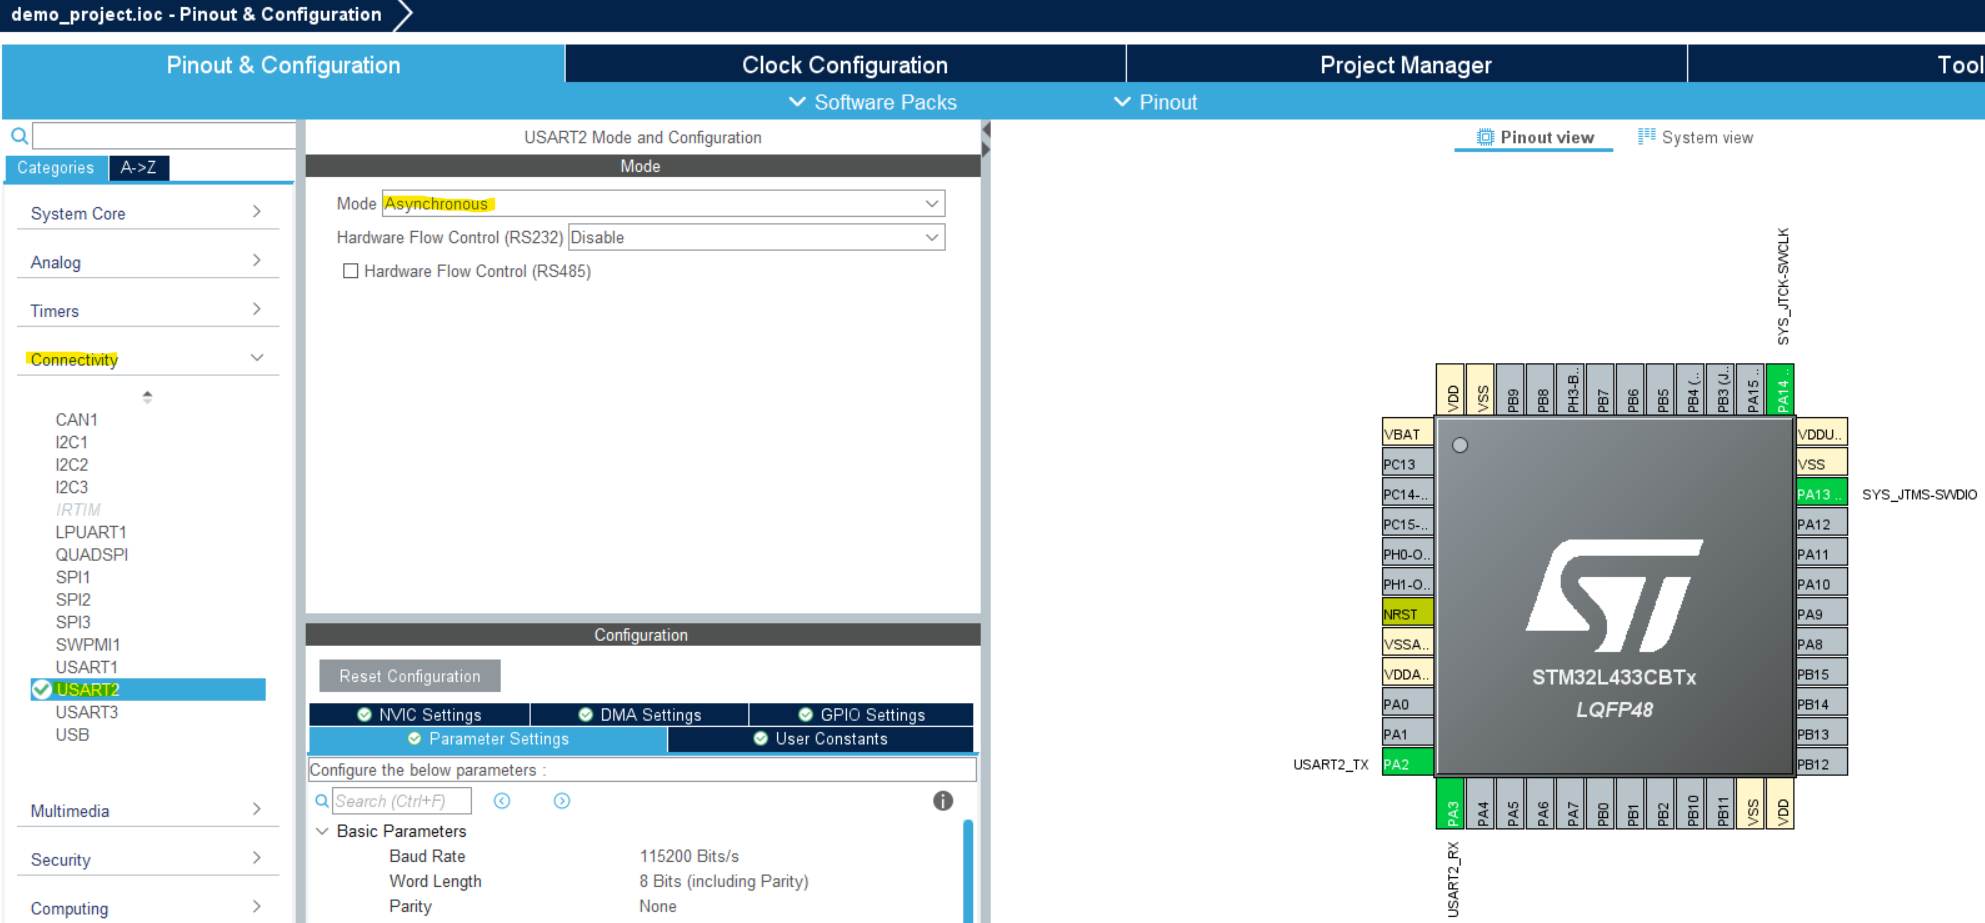
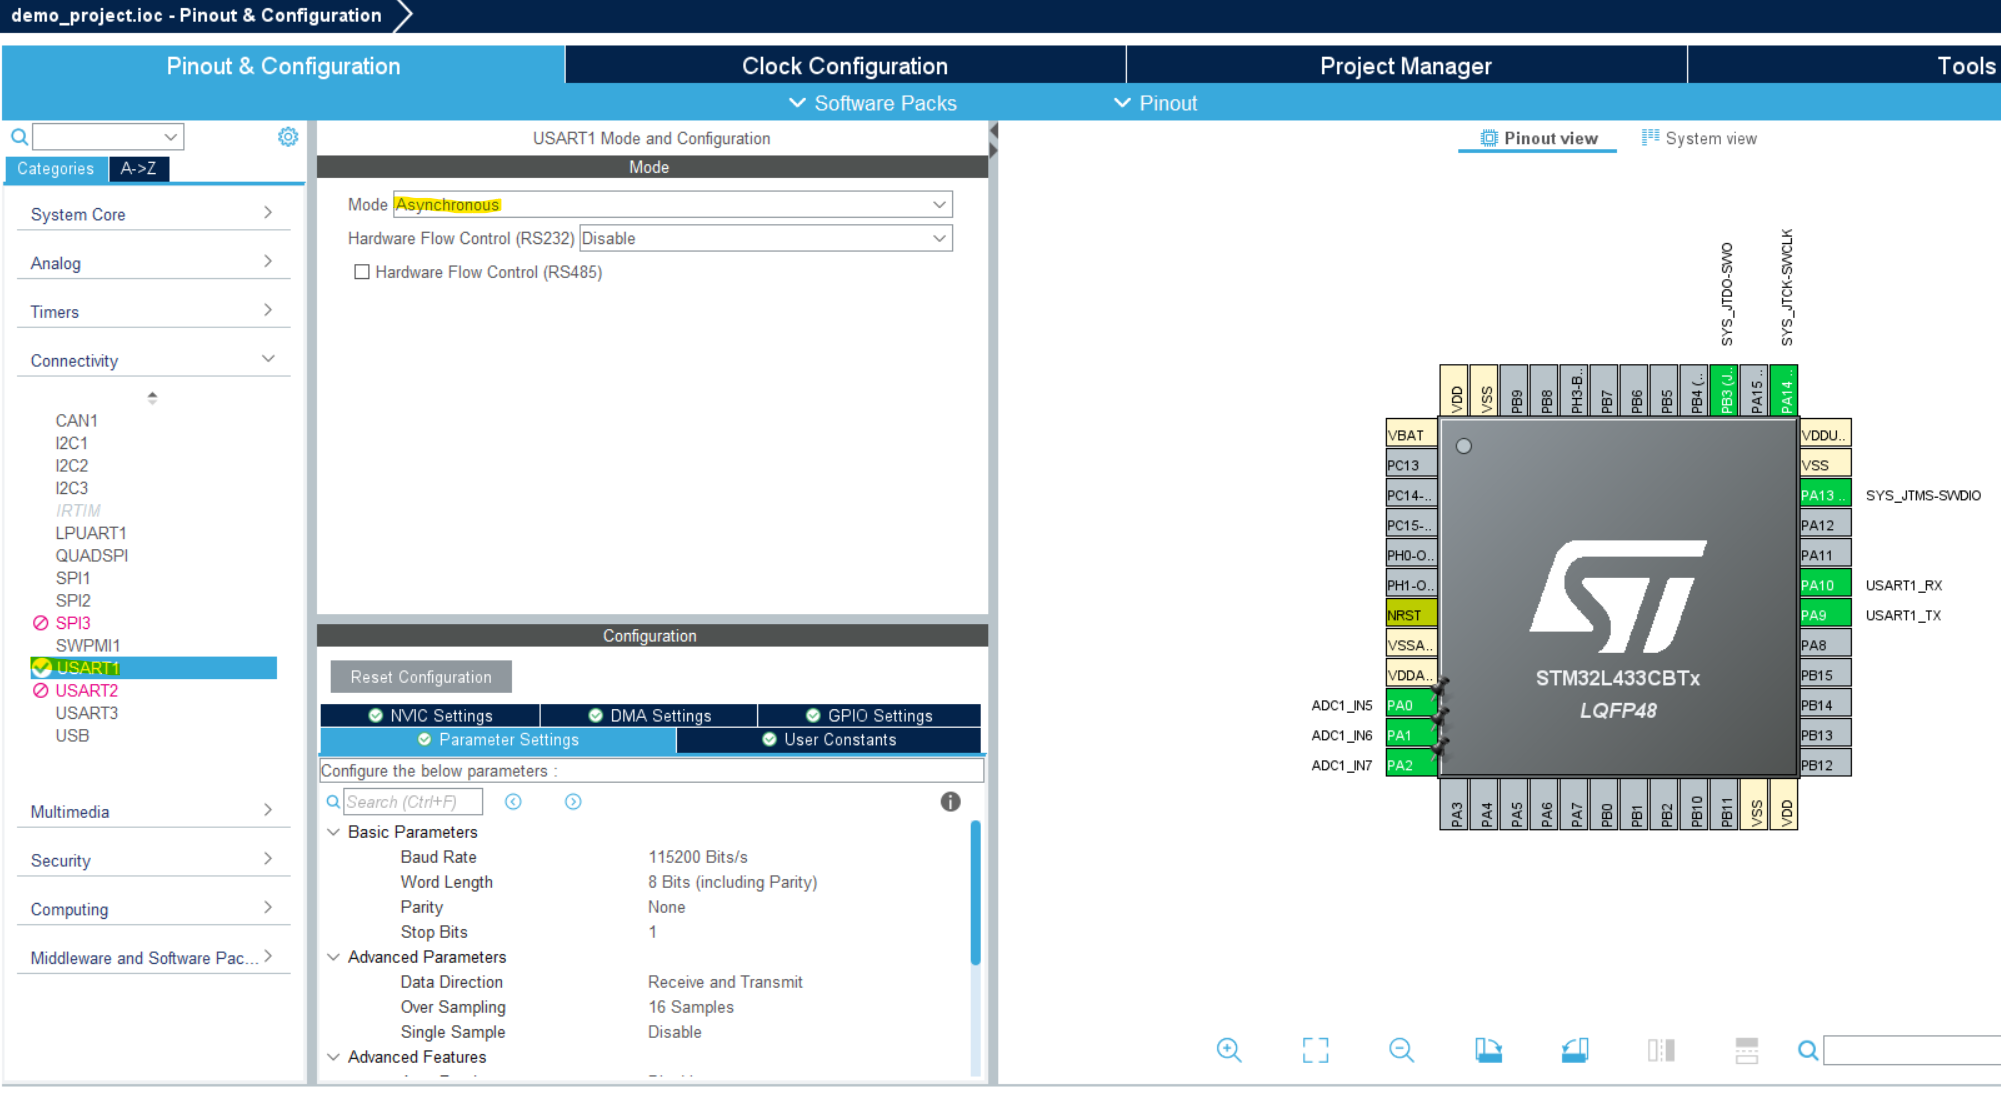
Many changes, mostly around fact that UART1 is utilised, not UART2

diff --git a/6. Payload Breakdowns/6.1 Acclerometer/ADXL326 Lesson Guide.md b/6. Payload Breakdowns/6.1 Acclerometer/ADXL326 Lesson Guide.md
@@ -64,7 +64,7 @@
         <details>
         <summary>**Answers**</summary>
         <br>
-        -The microcontroller will need to supply 3 volts and a ground to the ADXL326. Remember, the chip is expecting these inputs. You may also want to consider that the chip can also be supplied a self test signal, which is another input that the microcontroller will need to handle.<br><br>- The microcontroller needs to take in three analog readings from the ADXL326. These are the voltages the chip outputs for the X, Y and Z directions. You will need to handle these inputs via the microcontroller. Note these signals are analog in nature and the microcontroller will need to handle this.
+        - The microcontroller will need to supply 3 volts and a ground to the ADXL326. Remember, the chip is expecting these inputs. You may also want to consider that the chip can also be supplied a self test signal, which is another input that the microcontroller will need to handle.<br><br>- The microcontroller needs to take in three analog readings from the ADXL326. These are the voltages the chip outputs for the X, Y, and Z directions. You will need to handle these inputs via the microcontroller. Note these signals are analog in nature and the microcontroller will need to handle this.
         </details>
 <br>
 
@@ -81,7 +81,7 @@
         </details>
 <br>
 
-3. Draw a circuit of your proposed solution.<br><br>Does it meet the requirements of the ADXL326? Check it against the below example diagrams. To ensure that the chip has a constant and steady supply of power, what passive electronic component should be used?<br><br>To ensure that the output from the X, Y and Z pins in smoothed and within the correct frequency band the data sheet recommends the following values. How should they be connected to the ADXL326?
+3. Draw a circuit of your proposed solution.<br><br>Does it meet the requirements of the ADXL326? Check it against the answer below. To ensure that the chip has a constant and steady supply of power, what passive electronic component should be used?<br><br>To ensure that the output from the X, Y, and Z pins is smoothed and within the correct frequency band the data sheet recommends the following values. How should they be connected to the ADXL326? What passive component uses the value of Farads?
 ![Alt text](image-18.png)
         <details>
         <summary>**Answers**</summary>
@@ -90,7 +90,7 @@
                 <details>
                 <summary>**Important Tips**</summary>
                 <br>
-                - Notice how IN8 has been used instead of IN7 for the ADC. This is because later on the PA2 pin (or ADC1_IN7) will be utilised by another subsystem on the chip. This will be made clearer on task 4.3, where the USART system onboard the microcontroller is turned on. This will save time later.<br><br>- A capacitor is used between ground and supply voltage to smooth our any voltage drops from the microcontroller. As the device needs to power itself and supply power to other logical outputs, the power it outputs can fluctuate. Adding a capacitor is a common passive component that is capable of storing electrical charge and discharge when less power is being supplied. This allows the circuit to operate at a steady and constant voltage.<br><br>- It also means that noisy signals can be smoothed out. This is because capacitors suck up voltage, meaning they can take out large peaks in signals. However, if the signal starts to lessen in voltage they will start to supply voltage. This hence produces a signal that is smoother, because the peaks and troughs are brought closer together.
+                - A capacitor is used between ground and supply voltage to smooth our any voltage drops from the microcontroller. As the device needs to power itself and supply power to other logical outputs, the power it outputs can fluctuate. Adding a capacitor is a common method used to storing electrical charge and discharge when less power is being supplied. This allows the circuit to operate at a steady and constant voltage.<br><br>- It also means that noisy signals can be smoothed out. This is because capacitors suck up voltage, meaning they can take out large peaks in signals. However, if the signal starts to lessen in voltage they will start to supply voltage. This hence produces a signal that is smoother, because the peaks and troughs are brought closer together.
                 </details>
         </details>
 <br>
@@ -118,10 +118,10 @@
 5. You will then be presented with the pinout for the microcontroller you'll be running! This gives you direct control over the capabilites the chip will have initialised.<br>The most important thing to set up is the ability to talk to the microcontroller, we need to tell the code how to communicate with the chip. For this we will select the 'system core' tab, then the 'SYS' tab where we will select the 'Serial Wire' option for debugging. This tells the chip what method of communication we will be using for debugging the chip.<br>![Alt text](image-9.png)
 <br>
 
-6. Next, we need to let the chip know how it will be flashed. For this we will select the 'Connectivity' tab, then the 'USART2' tab where you'll select the mode as 'Asynchronous'. This is letting the microcontroller know we will be using the USART2 pins to communicate from the laptop to the microcontroller.<br>![Alt text](image-10.png)
+6. Next, we need to let the chip know how it will be flashed. For this we will select the 'Connectivity' tab, then the 'USART1' tab where you'll select the mode as 'Asynchronous'. This is letting the microcontroller know we will be using the USART1 pins to communicate from the laptop to the microcontroller.<br>![Alt text](image-10.png)
 <br>
 
-7. As we have three *analog* inputs, we know we have to initilise the ADC. To do this go to the 'Analog' tab, select the 'ADC1' tab and chose the same pins you have marked down in your circuit diagram. Here you may notice the yellow and pink highlighted options.<br>The yellow is saying that selecting this pin will limit the options available to other currently active peripheries.<br>The pink is saying that this pin is being limited by other currently active peripheries.<br>![Alt text](image-11.png)
+7. As we have three *analog* inputs, we know we have to initilise the ADC. To do this go to the 'Analog' tab, select the 'ADC1' tab and chose the same pins you have marked down in your circuit diagram.<br>![Alt text](image-11.png)
 <br> 
 
 8. Because we have three seperate data lines going into one ADC, we need to set up a method of polling all the values from the ADC at once. First, we need to let the ADC know there are three converions occuring. This setting can be found in the "Configuration" window and the value you need to change is the "Number Of Conversion".<br>After this, you'll need to allocate the different ADC channels to the generated "Rank" settings. This is detailed in the image bellow.<br>![Alt text](image-12.png)
@@ -135,17 +135,17 @@
         </details>
 <br>
 
-10. Finally, we need to go back to 'Parameter Settings' and ensure the following continous conversion settings are selected:<br>![Alt text](image-14.png)
+10.  Finally, we need to go back to 'Parameter Settings' and ensure the following continous conversion settings are selected:<br>![Alt text](image-14.png)
 <br>
 
-11. Now all the ADC settings are selected, we need to adjust the clock settings. Go to the 'Clock Configuration' tab and select 'Yes' on the prompt asking to run the automatic clock solver. This will solve all our problems for us. If this does not work, click the 'Resolve Clock Issues' button.<br>![Alt text](image-15.png)
+11.  Now all the ADC settings are selected, we need to adjust the clock settings. Go to the 'Clock Configuration' tab and select 'Yes' on the prompt asking to run the automatic clock solver. This will solve all our problems for us. If this does not work, click the 'Resolve Clock Issues' button.<br>![Alt text](image-15.png)
         <details>
         <summary>**Why is this?**</summary>
         The ADC onboard the microcontroller cannot continuiously converted the voltages outputted by the ADXL326. This is because the microcontroller operates in discrete time, meaning its components are told when to process information and at what rate by clocks on the board. These clocks can be configured however, to allowing the user to set the polling rate of the ADC to match the data rate of the sensor that provides analog values. Hence, when we configure the ADC1 pins in cubeIDE, it must be updated. For the ADXL326, it does not have a specific data production rate (you'll notice nothing is mentioned in the specifications from task 1.3)
         </details>
 <br>
 
-12. Now "ctl + s" to save the configuration. It will then ask you if you would like to generate code, select 'Yes'. It will then ask if you would like the C/C++ perspective, select 'Yes' again.
+12.  Now "ctl + s" to save the configuration. It will then ask you if you would like to generate code, select 'Yes'. It will then ask if you would like the C/C++ perspective, select 'Yes' again.
 
 ### 5. Writing the code
 1. Now all the necessary initialisation has been taken care of its time to start adding in the code that will pull data from the ADC. To do this though, you must first understand that if any changes are made in the chip configuration page (where all the tasks in section 4 took place) the code will be regenerated. To stop any code you add to the main.c file from being over written you **must** put it in the correct place. These spots for use code are denoted as follows:<br>![Alt text](image-16.png)
@@ -170,7 +170,7 @@
         </details>
 ```C++
 /*USER CODE BEGIN 0*/
-uint32_t ADC_Values[3];
+uint32_t ADC_Value[3];
 uint8_t Print_Buffer[50];
 /*USER CODE END 0*/
 ```
@@ -179,7 +179,7 @@ uint8_t Print_Buffer[50];
 <br>
 ```C++
 /*USER CODE BEGIN 2*/
-HAL_ADC_Start_DMA(&hadc, ADC_Values, 3);
+HAL_ADC_Start_DMA(&hadc1, ADC_Value, 3);
 /*USER CODE END 2*/
 ```
 
@@ -189,8 +189,8 @@ HAL_ADC_Start_DMA(&hadc, ADC_Values, 3);
 /* USER CODE BEGIN WHILE */
 while(1)
 {
-        sprintf((char *)test_buffer, "C1: %d C2: %d C3: %d\r\n", (int)value[0], (int)value[1], (int)value[2]);
-        HAL_UART_Transmit(&huart2, test_buffer, 50, 10);
+        sprintf((char *)Print_Buffer, "C1: %d C2: %d C3: %d\r\n", (int)ADC_Value[0], (int)ADC_Value[1], (int)ADC_Value[2]);
+        HAL_UART_Transmit(&huart1, Print_Buffer, 50, 10);
         HAL_Delay(500);
 }
 ```
